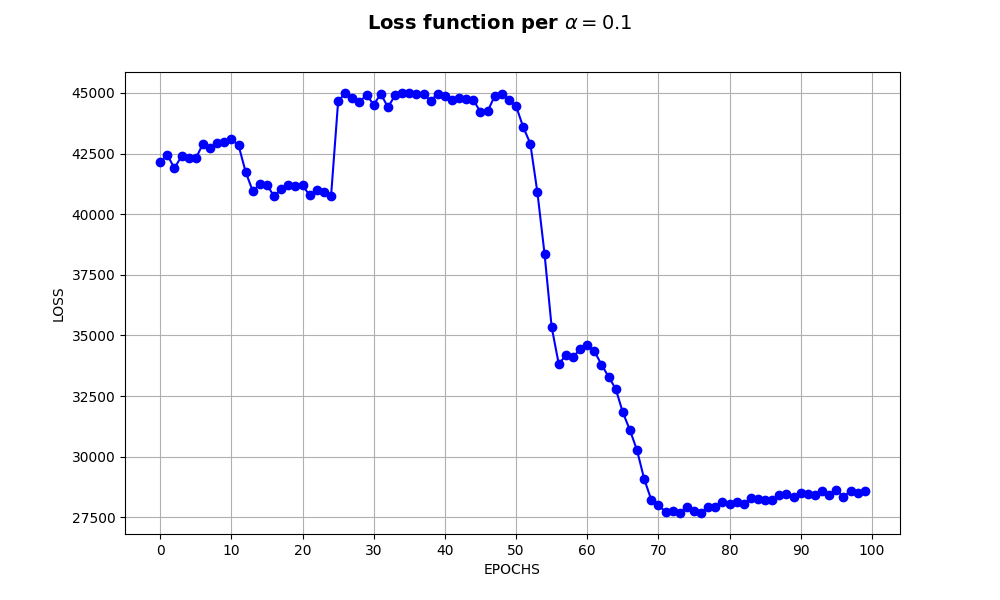
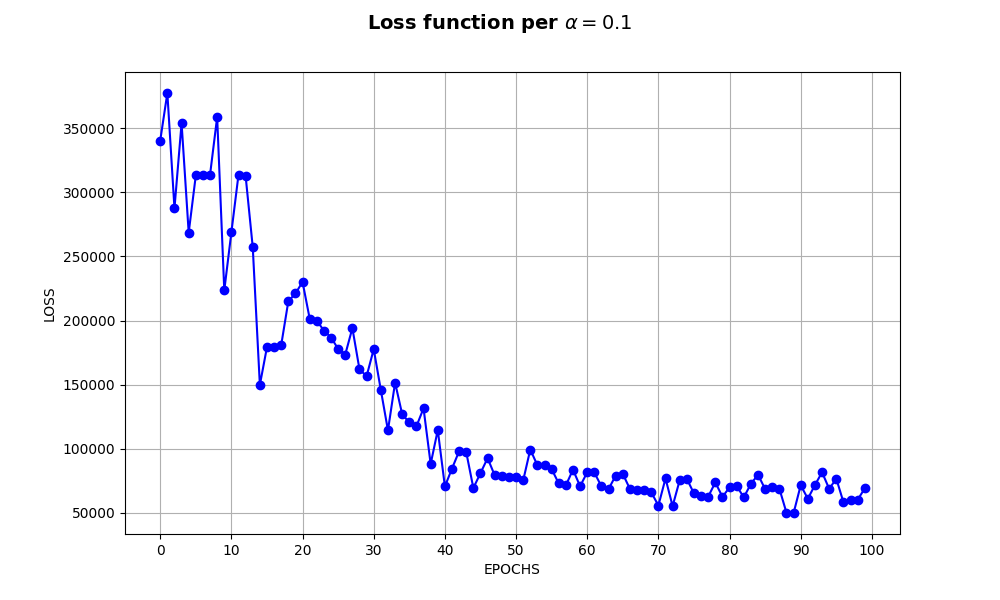
springbuts

diff --git a/graphLoss.py b/graphLoss.py
@@ -2,16 +2,7 @@ import re
 import matplotlib.pyplot as plt
 
 #questo po essere sostituito dalla lettura di un file
-log_data = {0: 42154.28515625, 1: 42438.16015625, 2: 41898.90625, 3: 42399.6796875, 4: 42318.171875, 5: 42300.40625, 6: 42904.703125, 7: 42723.9375, 8: 42930.9375, 9: 42987.0, 10: 43090.5, 
-            11: 42844.6875, 12: 41749.75, 13: 40953.0, 14: 41237.625, 15: 41216.3125, 16: 40734.375, 17: 41052.0, 18: 41217.0, 19: 41146.875, 20: 41192.25, 
-            21: 40779.0625, 22: 40981.875, 23: 40928.25, 24: 40734.375, 25: 44658.125, 26: 44995.5, 27: 44796.375, 28: 44640.0, 29: 44914.5, 30: 44520.625, 
-            31: 44964.0, 32: 44410.5, 33: 44905.5, 34: 44986.5, 35: 45000.0, 36: 44968.5, 37: 44977.5, 38: 44671.5, 39: 44977.5, 40: 44887.5, 
-            41: 44714.0, 42: 44778.5, 43: 44743.5, 44: 44711.875, 45: 44216.125, 46: 44242.25, 47: 44878.5, 48: 44973.25, 49: 44721.5, 50: 44460.75, 
-            51: 43599.75, 52: 42915.25, 53: 40900.0, 54: 38372.75, 55: 35350.5, 56: 33821.0, 57: 34183.0, 58: 34098.5, 59: 34442.0, 60: 34597.25, 
-            61: 34356.75, 62: 33797.75, 63: 33300.75, 64: 32800.0, 65: 31830.75, 66: 31097.75, 67: 30264.0, 68: 29085.75, 69: 28225.0, 70: 28021.25, 
-            71: 27716.25, 72: 27778.5, 73: 27679.5, 74: 27930.5, 75: 27744.25, 76: 27695.25, 77: 27916.5, 78: 27945.25, 79: 28132.25, 80: 28065.25,
-              81: 28148.25, 82: 28059.5, 83: 28278.75, 84: 28263.5, 85: 28226.0, 86: 28200.0, 87: 28424.0, 88: 28475.75, 89: 28338.25, 90: 28523.5, 
-              91: 28480.5, 92: 28414.75, 93: 28597.75, 94: 28435.25, 95: 28635.5, 96: 28343.0, 97: 28590.75, 98: 28516.25, 99: 28597.5}
+log_data = {0: 340422.65625, 1: 377510.96875, 2: 287529.0, 3: 353973.625, 4: 268551.0, 5: 313233.625, 6: 313266.125, 7: 313737.5, 8: 358772.5, 9: 223503.25, 10: 268882.5, 11: 313804.0, 12: 312664.5, 13: 257311.75, 14: 149792.0, 15: 179334.0, 16: 179167.0, 17: 180908.0, 18: 215047.5, 19: 221173.5, 20: 230089.0, 21: 201553.5, 22: 199855.5, 23: 192256.5, 24: 186792.5, 25: 177923.0, 26: 173520.0, 27: 194141.5, 28: 161940.0, 29: 156631.0, 30: 177710.5, 31: 145815.0, 32: 114367.5, 33: 151585.5, 34: 126909.0, 35: 120519.5, 36: 117556.0, 37: 131566.5, 38: 88144.0, 39: 114604.0, 40: 70604.0, 41: 84599.0, 42: 98098.0, 43: 97328.0, 44: 69375.0, 45: 81038.0, 46: 92686.0, 47: 79316.0, 48: 78982.0, 49: 78061.0, 50: 78155.0, 51: 75273.0, 52: 99437.0, 53: 87088.0, 54: 87713.0, 55: 84182.0, 56: 72941.0, 57: 71512.0, 58: 83699.0, 59: 70780.0, 60: 81690.0, 61: 81505.0, 62: 70604.0, 63: 68642.0, 64: 79051.0, 65: 80393.0, 66: 68689.0, 67: 67596.0, 68: 68198.0, 69: 66045.0, 70: 55731.0, 71: 76842.0, 72: 55284.0, 73: 75605.0, 74: 76503.0, 75: 65145.0, 76: 63456.0, 77: 62706.0, 78: 73754.0, 79: 62530.0, 80: 69880.0, 81: 71010.0, 82: 62112.0, 83: 72660.0, 84: 79783.0, 85: 68560.0, 86: 69915.0, 87: 68902.0, 88: 50085.0, 89: 49913.0, 90: 71587.0, 91: 61032.0, 92: 71747.0, 93: 81677.0, 94: 68735.0, 95: 76666.0, 96: 58400.0, 97: 60220.0, 98: 60229.0, 99: 69127.0}
 
 #pattern = r"(\d+): ([\d.,]+)"
 #matches = re.findall(pattern, log_data)
